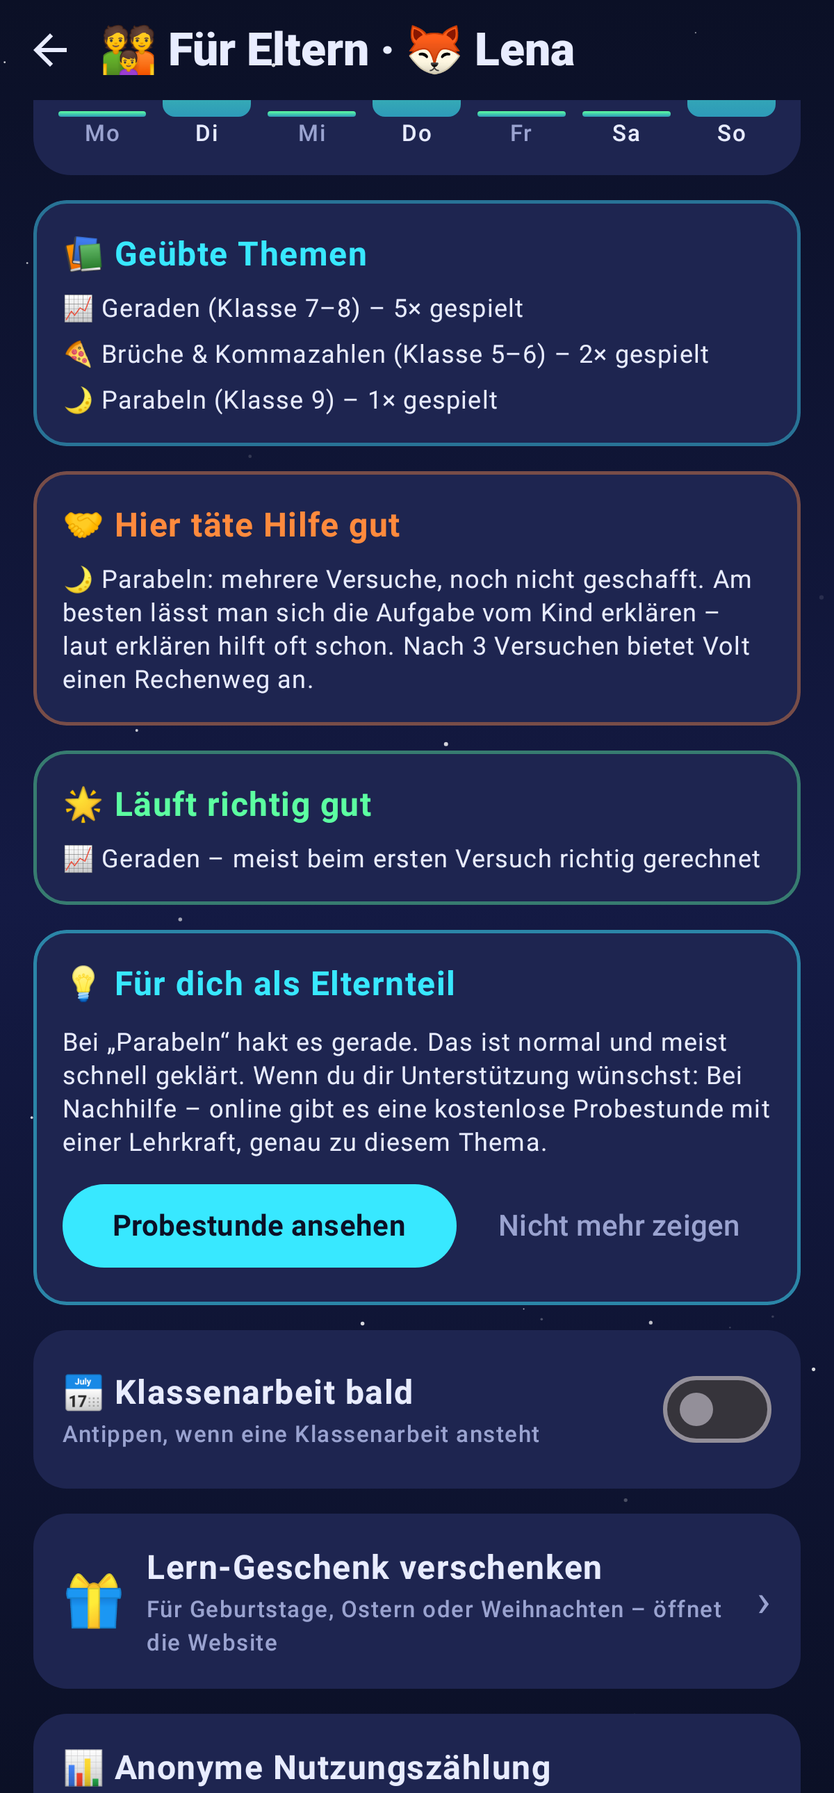
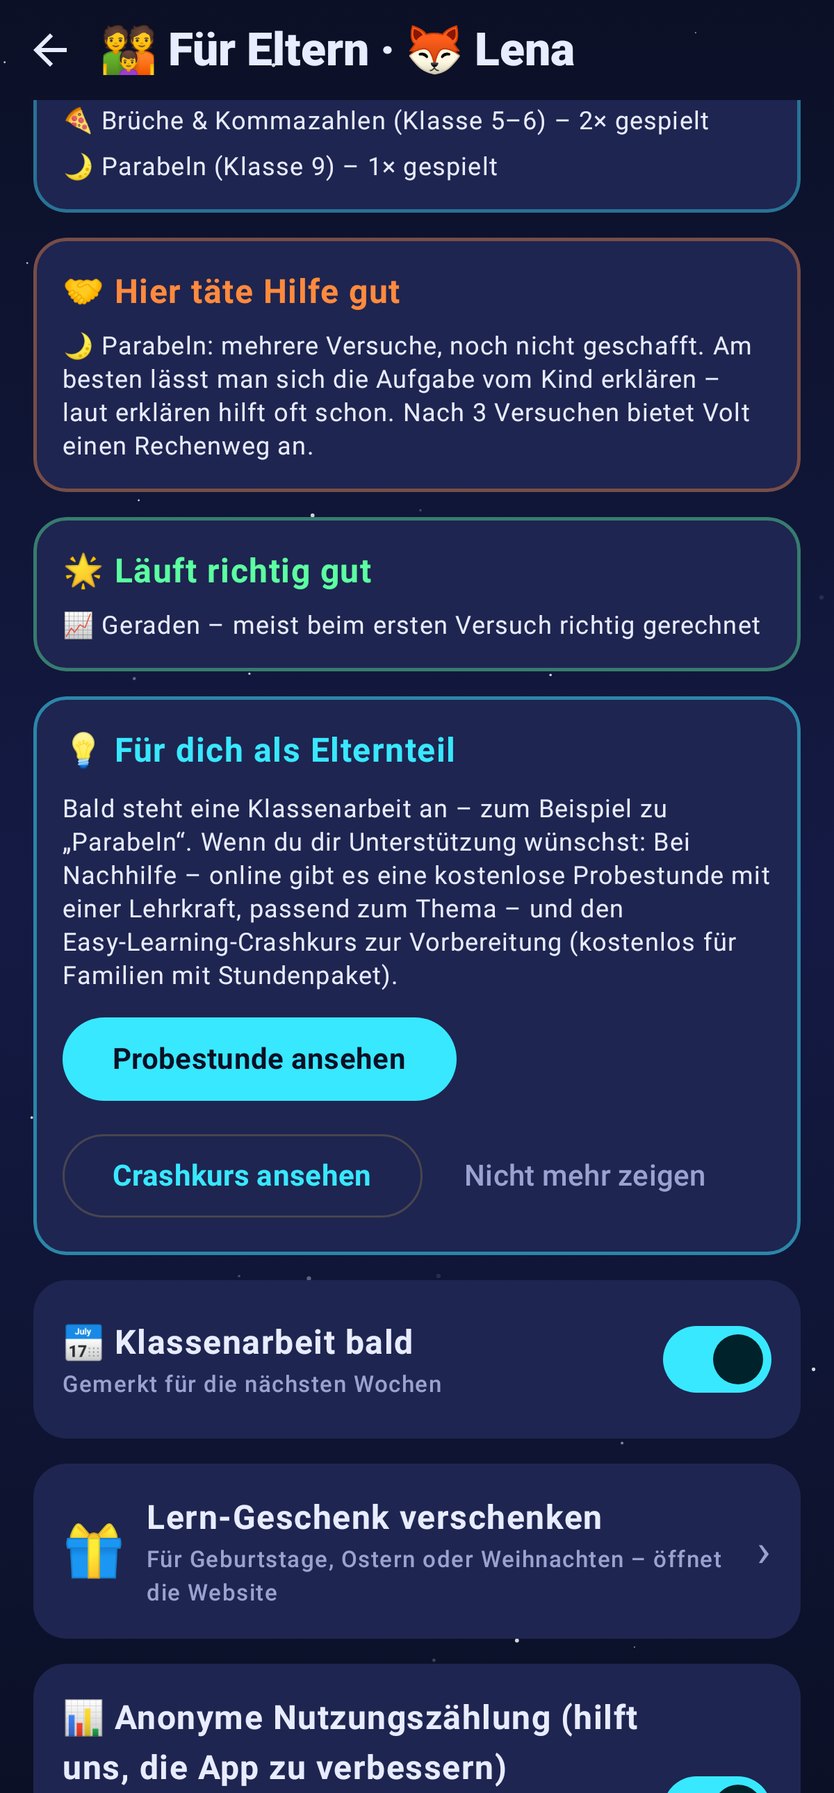
Kurvenflug 2.5.22: Ratgeber-Vorgaben – Zählung Standard an mit allen Ereignissen, gemeinsame Themen-IDs, Probestunde/Crashkurs-Links
Claude-Session: https://claude.ai/code/session_015vg1TniCB6sLGd2dNSJdge

diff --git a/kurvenflug/shared/src/commonMain/kotlin/de/kurvenflug/app/ui/together/Together.kt b/kurvenflug/shared/src/commonMain/kotlin/de/kurvenflug/app/ui/together/Together.kt
@@ -257,13 +257,15 @@ class ParentArea(
     val onHideHint: () -> Unit,
     val onHintSeen: () -> Unit,
     val onCounting: (Boolean) -> Unit,
+    /** Anonyme Nutzungszählung: Klicks und Hinweise (nur gesendet, wenn die Zählung an ist) */
+    val onCount: (String) -> Unit = {},
 )
 
 @Composable
 private fun ParentExtras(p: ParentArea, w: WeekSummary) {
     val sfx = LocalSfx.current
     val reason = de.kurvenflug.core.model.ParentOffers.hint(p.today, w.needsHelp.isNotEmpty(), p.examUntil, p.hintHidden, p.hintShown)
-    LaunchedEffect(reason) { if (reason != null) p.onHintSeen() }
+    LaunchedEffect(reason) { if (reason != null) { p.onHintSeen(); p.onCount("nachhilfe_hinweis") } }
     // Nachhilfe-Hinweis – themenbezogen, höchstens an einem Tag pro Woche, ausblendbar
     if (reason != null) {
         val topic = w.needsHelp.firstOrNull() ?: w.topics.firstOrNull()?.first
@@ -275,13 +277,19 @@ private fun ParentExtras(p: ParentArea, w: WeekSummary) {
             Text("💡 Für dich als Elternteil", fontWeight = FontWeight.Bold, color = Q.Cyan)
             Text(when (reason) {
                 de.kurvenflug.core.model.ParentOffers.Reason.EXAM -> "Bald steht eine Klassenarbeit an" + (topic?.let { " – zum Beispiel zu „${it.title}“" } ?: "") +
-                    ". Wenn du dir Unterstützung wünschst: Bei Nachhilfe – online gibt es eine kostenlose Probestunde mit einer Lehrkraft, passend zum Thema."
+                    ". Wenn du dir Unterstützung wünschst: Bei Nachhilfe – online gibt es eine kostenlose Probestunde mit einer Lehrkraft, passend zum Thema – " +
+                    "und den Easy-Learning-Crashkurs zur Vorbereitung (kostenlos für Familien mit Stundenpaket)."
                 else -> "Bei „${topic?.title}“ hakt es gerade. Das ist normal und meist schnell geklärt. Wenn du dir Unterstützung wünschst: " +
                     "Bei Nachhilfe – online gibt es eine kostenlose Probestunde mit einer Lehrkraft, genau zu diesem Thema."
             }, color = Q.Text, style = MaterialTheme.typography.bodySmall)
             Row(horizontalArrangement = Arrangement.spacedBy(8.dp), verticalAlignment = Alignment.CenterVertically) {
-                Button(onClick = { sfx?.play(Sound.TAP); p.onOpen(de.kurvenflug.core.model.ParentOffers.trialLesson(topic?.number ?: 0, p.grade)) },
+                Button(onClick = { sfx?.play(Sound.TAP); p.onCount("probestunde_klick"); p.onOpen(de.kurvenflug.core.model.ParentOffers.trialLesson(topic?.number, p.grade, reason)) },
                     colors = ButtonDefaults.buttonColors(containerColor = Q.Cyan, contentColor = Q.Space)) { Text("Probestunde ansehen", fontWeight = FontWeight.Bold) }
+                if (reason != de.kurvenflug.core.model.ParentOffers.Reason.EXAM) TextButton(onClick = { sfx?.play(Sound.TICK); p.onHideHint() }) { Text("Nicht mehr zeigen", color = Q.Muted) }
+            }
+            if (reason == de.kurvenflug.core.model.ParentOffers.Reason.EXAM) Row(horizontalArrangement = Arrangement.spacedBy(8.dp), verticalAlignment = Alignment.CenterVertically) {
+                OutlinedButton(onClick = { sfx?.play(Sound.TAP); p.onCount("crashkurs_klick"); p.onOpen(de.kurvenflug.core.model.ParentOffers.CRASH_COURSE) }) {
+                    Text("Crashkurs ansehen", color = Q.Cyan, fontWeight = FontWeight.Bold) }
                 TextButton(onClick = { sfx?.play(Sound.TICK); p.onHideHint() }) { Text("Nicht mehr zeigen", color = Q.Muted) }
             }
         }
@@ -297,7 +305,7 @@ private fun ParentExtras(p: ParentArea, w: WeekSummary) {
         Switch(exam, { sfx?.play(Sound.TICK); p.onExam(it) })
     }
     // Lern-Geschenk
-    Row(Modifier.fillMaxWidth().clip(RoundedCornerShape(16.dp)).background(Q.Panel).clickable { sfx?.play(Sound.TAP); p.onOpen(de.kurvenflug.core.model.ParentOffers.GIFT) }.padding(14.dp),
+    Row(Modifier.fillMaxWidth().clip(RoundedCornerShape(16.dp)).background(Q.Panel).clickable { sfx?.play(Sound.TAP); p.onCount("geschenk_klick"); p.onOpen(de.kurvenflug.core.model.ParentOffers.GIFT) }.padding(14.dp),
         verticalAlignment = Alignment.CenterVertically) {
         Text("🎁", fontSize = 24.sp)
         Column(Modifier.weight(1f).padding(start = 10.dp)) {
@@ -309,9 +317,9 @@ private fun ParentExtras(p: ParentArea, w: WeekSummary) {
     // Anonyme Nutzungszählung (aus = Standard)
     Row(Modifier.fillMaxWidth().clip(RoundedCornerShape(16.dp)).background(Q.Panel).padding(14.dp), verticalAlignment = Alignment.CenterVertically) {
         Column(Modifier.weight(1f)) {
-            Text("📊 Anonyme Nutzungszählung", fontWeight = FontWeight.Bold, color = Q.Text)
-            Text("Hilft uns, Kurvenflug zu verbessern: Gezählt wird nur, wie oft gestartet, ein Level begonnen oder geschafft und die Theorie " +
-                "geöffnet wurde – ohne Namen, ohne Spielstand, ohne Cookies, ohne Kennung.", color = Q.Muted, style = MaterialTheme.typography.labelSmall)
+            Text("📊 Anonyme Nutzungszählung (hilft uns, die App zu verbessern)", fontWeight = FontWeight.Bold, color = Q.Text)
+            Text("Gezählt wird nur, wie oft etwas passiert (z. B. Start, Level geschafft, Theorie geöffnet) – ohne Kennung, ohne IP, ohne Namen " +
+                "oder Spielstand. Auf dem Gerät wird dafür nichts gespeichert außer diesem Schalter.", color = Q.Muted, style = MaterialTheme.typography.labelSmall)
         }
         Switch(p.counting, { sfx?.play(Sound.TICK); p.onCounting(it) })
     }

diff --git a/kurvenflug/core/model/src/commonMain/kotlin/de/kurvenflug/core/model/ParentOffers.kt b/kurvenflug/core/model/src/commonMain/kotlin/de/kurvenflug/core/model/ParentOffers.kt
@@ -15,9 +15,30 @@ object ParentOffers {
     /** „Klassenarbeit bald“ gilt so lange, nachdem die Eltern es angetippt haben */
     const val EXAM_DAYS = 21L
 
-    /** Kostenlose Probestunde zum Thema (Kapitel-Nummer) und zur Klasse */
-    fun trialLesson(chapter: Int, grade: Int?): String =
-        "$SITE/probestunde/?src=kurvenflug-eltern&thema=kf-$chapter" + (grade?.let { "&klasse=$it" } ?: "")
+    /** Crashkurs vor einer Klassenarbeit (Wortlaut Leitstand: „kostenlos für Familien mit Stundenpaket“) */
+    const val CRASH_COURSE = "$SITE/produkt/easy-learning-crash-kurs/?src=kurvenflug-klassenarbeit"
+
+    /**
+     * Gemeinsame Themen-Kennungen (Leitstand 18.11.; andere Werte verwirft das Probestunden-Formular) je Kurvenflug-Kapitel.
+     */
+    val TOPICS: Map<Int, String> = mapOf(
+        1 to "geometrie", 2 to "lineare-funktionen", 3 to "quadratische-funktionen", 4 to "physik-mechanik", 5 to "trigonometrie",
+        6 to "physik-mechanik", 7 to "gleichungssysteme", 8 to "zuordnungen", 9 to "pythagoras", 10 to "exponential-log",
+        11 to "physik-optik", 12 to "physik-energie", 13 to "physik-mechanik", 14 to "trigonometrie", 15 to "brueche",
+        16 to "geometrie", 17 to "physik-optik", 18 to "quadratische-funktionen", 19 to "analysis", 20 to "analysis",
+        21 to "analysis", 22 to "vektoren", 23 to "prozent", 24 to "physik-mechanik", 25 to "potenzen-wurzeln",
+        26 to "trigonometrie", 27 to "physik-mechanik", 28 to "exponential-log", 29 to "zuordnungen", 30 to "stochastik",
+    )
+    /** Die erlaubte gemeinsame Liste (zur Prüfung im Test) */
+    val ALLOWED_TOPICS = setOf("grundrechenarten", "einmaleins", "brueche", "dezimalzahlen", "prozent", "zuordnungen", "terme-gleichungen",
+        "lineare-funktionen", "gleichungssysteme", "pythagoras", "quadratische-funktionen", "potenzen-wurzeln", "exponential-log", "trigonometrie",
+        "geometrie", "vektoren", "analysis", "stochastik", "physik-mechanik", "physik-optik", "physik-energie", "sachkunde", "deutsch", "englisch",
+        "allgemeinwissen")
+
+    /** Kostenlose Probestunde zum Thema und zur Klasse; [reason] bestimmt die Quelle (elternbericht bzw. klassenarbeit) */
+    fun trialLesson(chapter: Int?, grade: Int?, reason: Reason = Reason.STUCK): String =
+        "$SITE/probestunde/?src=kurvenflug-" + (if (reason == Reason.EXAM) "klassenarbeit" else "elternbericht") +
+            (chapter?.let { TOPICS[it] }?.let { "&thema=$it" } ?: "") + (grade?.let { "&klasse=$it" } ?: "")
 
     /** Warum der Hinweis kommt */
     enum class Reason { STUCK, EXAM }
@@ -41,13 +62,16 @@ object ParentOffers {
 object UsageCount {
     const val URL = "https://trainer.mathenachhilfe-online.com/zaehler/v1/e"
     /** Erlaubte Ereignisse – nichts anderes wird je gezählt */
-    val EVENTS = setOf("start", "level_start", "level_geschafft", "theorie")
+    val EVENTS = setOf("start", "level_start", "level_geschafft", "theorie", "elternbereich", "pro_ansehen", "pro_kasse", "code_eingeloest",
+        "probestunde_klick", "neukunde_klick", "crashkurs_klick", "nachhilfe_hinweis", "geschenk_klick")
+    /** Der Zähler nimmt je Ereignis höchstens so viele an */
+    const val MAX_PER_EVENT = 50
 
-    /** Inhalt der Sendung: {"app":"kurvenflug","v":"2.5.21","f":"wasm","e":{"start":1,…}} – null, wenn nichts zu senden ist */
-    fun body(version: String, variant: String, counts: Map<String, Int>): String? {
+    /** Inhalt der Sendung: {"app":"kurvenflug","v":"2.5.22","e":{"start":1,…}} – null, wenn nichts zu senden ist */
+    fun body(version: String, counts: Map<String, Int>): String? {
         val e = counts.filterKeys { it in EVENTS }.filterValues { it > 0 }
         if (e.isEmpty()) return null
-        val list = e.entries.sortedBy { it.key }.joinToString(",") { "\"${it.key}\":${it.value}" }
-        return "{\"app\":\"kurvenflug\",\"v\":\"${version.filter { it.isLetterOrDigit() || it == '.' }}\",\"f\":\"${variant.filter { it.isLetter() }}\",\"e\":{$list}}"
+        val list = e.entries.sortedBy { it.key }.joinToString(",") { "\"${it.key}\":${it.value.coerceAtMost(MAX_PER_EVENT)}" }
+        return "{\"app\":\"kurvenflug\",\"v\":\"${version.filter { it.isLetterOrDigit() || it == '.' }}\",\"e\":{$list}}"
     }
 }

diff --git a/kurvenflug/core/model/src/commonTest/kotlin/de/kurvenflug/core/model/ParentOffersTest.kt b/kurvenflug/core/model/src/commonTest/kotlin/de/kurvenflug/core/model/ParentOffersTest.kt
@@ -19,15 +19,22 @@ class ParentOffersTest {
     }
 
     @Test fun linksCarrySourceAndNoPrice() {
-        assertEquals("https://www.mathenachhilfe-online.com/probestunde/?src=kurvenflug-eltern&thema=kf-9&klasse=9", ParentOffers.trialLesson(9, 9))
-        assertTrue(ParentOffers.trialLesson(3, null).endsWith("thema=kf-3"))
+        assertEquals("https://www.mathenachhilfe-online.com/probestunde/?src=kurvenflug-elternbericht&thema=pythagoras&klasse=9", ParentOffers.trialLesson(9, 9))
+        assertEquals("https://www.mathenachhilfe-online.com/probestunde/?src=kurvenflug-klassenarbeit&thema=quadratische-funktionen",
+            ParentOffers.trialLesson(3, null, ParentOffers.Reason.EXAM))
+        assertTrue("src=kurvenflug-klassenarbeit" in ParentOffers.CRASH_COURSE)
         assertTrue("src=kurvenflug-geschenk" in ParentOffers.GIFT && "src=kurvenflug-fusszeile" in ParentOffers.FOOTER)
         listOf(ParentOffers.GIFT, ParentOffers.FOOTER, ParentOffers.FOOTER_TEXT).forEach { assertTrue('€' !in it) }
     }
 
+    @Test fun everyChapterHasAnAllowedTopic() {
+        Levels.chapters.forEach { c -> val t = ParentOffers.TOPICS[c.number]; assertTrue(t != null && t in ParentOffers.ALLOWED_TOPICS, "Kapitel ${c.number} ohne Thema") }
+    }
+
     @Test fun usageBodyOnlyKnownEventsNoIds() {
-        assertNull(UsageCount.body("2.5.21", "wasm", emptyMap()))
-        val b = UsageCount.body("2.5.21", "wasm", mapOf("start" to 1, "level_geschafft" to 3, "name:Lena" to 1, "theorie" to 0))!!
-        assertEquals("{\"app\":\"kurvenflug\",\"v\":\"2.5.21\",\"f\":\"wasm\",\"e\":{\"level_geschafft\":3,\"start\":1}}", b)
+        assertNull(UsageCount.body("2.5.22", emptyMap()))
+        val b = UsageCount.body("2.5.22", mapOf("start" to 1, "level_geschafft" to 300, "name:Lena" to 1, "theorie" to 0))!!
+        assertEquals("{\"app\":\"kurvenflug\",\"v\":\"2.5.22\",\"e\":{\"level_geschafft\":50,\"start\":1}}", b)
+        assertTrue(UsageCount.EVENTS.size <= 20)
     }
 }

diff --git a/kurvenflug/shared/src/commonMain/kotlin/de/kurvenflug/app/ui/pro/ProScreen.kt b/kurvenflug/shared/src/commonMain/kotlin/de/kurvenflug/app/ui/pro/ProScreen.kt
@@ -40,6 +40,8 @@ import de.kurvenflug.core.model.Pro
  */
 @Composable
 fun ProScreen(state: ProState, shop: ProShop?, onCode: (String) -> Unit, onBack: () -> Unit, locked: Boolean = false) {
+    val counter = de.kurvenflug.app.LocalPlatform.current
+    LaunchedEffect(Unit) { counter.count("pro_ansehen") }
     val sfx = LocalSfx.current
     var gate by remember { mutableStateOf(false) }
     var code by remember { mutableStateOf("") }
@@ -125,7 +127,7 @@ fun ProScreen(state: ProState, shop: ProShop?, onCode: (String) -> Unit, onBack:
                         val c = License.extract(code)
                         val ok = c != null && shop.publicKey.isNotEmpty() && License.check(c, shop.publicKey, CalDate.today().toEpochDay()) != null
                         codeMsg = if (ok) "Super – Pro ist freigeschaltet! 🎉" else "Dieser Code passt leider nicht. Bitte genau so einfügen, wie er in der E-Mail steht."
-                        if (ok) { onCode(c!!); sfx?.play(Sound.WIN) } else sfx?.play(Sound.WRONG)
+                        if (ok) { onCode(c!!); counter.count("code_eingeloest"); sfx?.play(Sound.WIN) } else sfx?.play(Sound.WRONG)
                     }, enabled = code.isNotBlank(), modifier = Modifier.fillMaxWidth()) { Text("Code einlösen", fontWeight = FontWeight.Bold) }
                     codeMsg?.let { Text(it, color = if (it.startsWith("Super")) Q.Green else Q.Pink) }
                 }
@@ -137,7 +139,7 @@ fun ProScreen(state: ProState, shop: ProShop?, onCode: (String) -> Unit, onBack:
                 style = MaterialTheme.typography.labelSmall, color = Q.Muted, textAlign = TextAlign.Center)
         }
     }
-    if (gate) ParentGate(onDismiss = { gate = false }) { gate = false; shop?.buy() }
+    if (gate) ParentGate(onDismiss = { gate = false }) { gate = false; counter.count("pro_kasse"); shop?.buy() }
 }
 
 /** Frage für Erwachsene vor jedem Kauf: Geburtsjahr eingeben, mindestens 18 Jahre. */

diff --git a/kurvenflug/shared/src/commonMain/kotlin/de/kurvenflug/app/Root.kt b/kurvenflug/shared/src/commonMain/kotlin/de/kurvenflug/app/Root.kt
@@ -213,7 +213,7 @@ private fun Nav(vm: AppState, platform: Platform, incomingDuel: MutableState<Str
     de.kurvenflug.app.ui.fx.BackHandler(enabled = platform.isWeb && route != Routes.HOME) { nav.popSafe() }
     // Elternbereich nur hinter dem Eltern-Tor (dort stehen Angebote für Eltern – nie für Kinder sichtbar)
     var parentGate by remember { mutableStateOf(false) }
-    if (parentGate) de.kurvenflug.app.ui.pro.ParentGate(onDismiss = { parentGate = false }, why = "Der Elternbereich ist für Erwachsene.") { parentGate = false; nav.goOnce(Routes.PARENT) }
+    if (parentGate) de.kurvenflug.app.ui.pro.ParentGate(onDismiss = { parentGate = false }, why = "Der Elternbereich ist für Erwachsene.") { parentGate = false; platform.count("elternbereich"); nav.goOnce(Routes.PARENT) }
     // Anonyme Nutzungszählung: Level-Abschlüsse aus dem Spielstand
     LaunchedEffect(Unit) { vm.events = platform::count }
     NavHost(nav, Routes.HOME,
@@ -389,7 +389,7 @@ private fun Nav(vm: AppState, platform: Platform, incomingDuel: MutableState<Str
                     onExam = { vm.settings.setExamUntil(if (it) day + de.kurvenflug.core.model.ParentOffers.EXAM_DAYS else 0L) },
                     onHideHint = { vm.settings.setTutorHintOff(true) },
                     onHintSeen = { if (vm.settings.tutorHintShown != day) vm.settings.tutorHintShown = day },
-                    onCounting = vm.settings::setAnonCount))
+                    onCounting = vm.settings::setAnonCount, onCount = platform::count))
         }
         composable(Routes.RESULTS) { de.kurvenflug.app.ui.together.ResultsBoard({ nav.popSafe() }) }
         composable(Routes.STICKERS) {

diff --git a/kurvenflug/shared/src/webMain/kotlin/de/kurvenflug/app/Platform.wasm.kt b/kurvenflug/shared/src/webMain/kotlin/de/kurvenflug/app/Platform.wasm.kt
@@ -70,14 +70,15 @@ object WebPlatform : Platform {
     private val counts = HashMap<String, Int>()
     private var counting = false
     private var leaveHooked = false
-    override fun count(event: String) { if (counting && event in de.kurvenflug.core.model.UsageCount.EVENTS) counts[event] = (counts[event] ?: 0) + 1 }
+    // Gezählt wird nur im Speicher (nichts auf dem Gerät abgelegt); gesendet nur, wenn die Zählung an ist
+    override fun count(event: String) { if (event in de.kurvenflug.core.model.UsageCount.EVENTS) counts[event] = (counts[event] ?: 0) + 1 }
     override fun setCounting(on: Boolean) {
         counting = on; if (!on) counts.clear()
         if (on && !leaveHooked) { leaveHooked = true; runCatching { jsOnLeave { takeBody() } } }
     }
     private fun takeBody(): String {
         if (!counting) return ""
-        val b = de.kurvenflug.core.model.UsageCount.body(versionName, runCatching { jsMode() }.getOrDefault(""), counts) ?: return ""
+        val b = de.kurvenflug.core.model.UsageCount.body(versionName, counts) ?: return ""
         counts.clear(); return b
     }
     override fun shareText(text: String, title: String) = jsShare(text, title)

diff --git a/kurvenflug/core/model/src/commonMain/kotlin/de/kurvenflug/core/data/Settings.kt b/kurvenflug/core/model/src/commonMain/kotlin/de/kurvenflug/core/data/Settings.kt
@@ -41,8 +41,8 @@ class Settings(private val prefs: Prefs) {
     fun setVoltVoice(v: Boolean) { prefs.edit().putBoolean("voltVoice", v).apply(); _voltVoice.value = v }
 
     // ------------------------------------------------------------ Elternbereich (für das ganze Gerät)
-    private val _anonCount = flag("anonCount", false)
-    /** Anonyme Nutzungszählung – nur wenn Eltern sie einschalten (aus = Standard, datensparsam) */
+    private val _anonCount = flag("anonCount", true)
+    /** Anonyme Nutzungszählung – Standard an (Marcel 18.11.), im Elternbereich abschaltbar; auf dem Gerät wird nur dieser Schalter gespeichert */
     val anonCount: StateFlow<Boolean> = _anonCount.asStateFlow()
     fun setAnonCount(v: Boolean) { prefs.edit().putBoolean("anonCount", v).apply(); _anonCount.value = v }
     private val _tutorHintOff = flag("tutorHintOff", false)

diff --git a/kurvenflug/app/src/test/java/de/kurvenflug/app/ui/ScreenshotTest.kt b/kurvenflug/app/src/test/java/de/kurvenflug/app/ui/ScreenshotTest.kt
@@ -289,7 +289,7 @@ class ScreenshotTest {
             de.kurvenflug.core.model.PlayRecord("15-2", 3, 1, 90, today), de.kurvenflug.core.model.PlayRecord("2-5", 3, 1, 260, today))
         de.kurvenflug.app.ui.together.ParentScreen(de.kurvenflug.core.data.Profile(0, "Lena", "🦊"),
             de.kurvenflug.core.model.Weekly.summary(plays, today + 3_600_000L, today), listOf("Mo", "Di", "Mi", "Do", "Fr", "Sa", "So"), onBack = {},
-            parent = de.kurvenflug.app.ui.together.ParentArea(7, 20_400L, 0L, false, 0L, false, {}, {}, {}, {}, {}))
+            parent = de.kurvenflug.app.ui.together.ParentArea(7, 20_400L, 20_410L, false, 0L, true, {}, {}, {}, {}, {}))
     }
 
     @Test fun results() = shot("63_bestenliste") {

diff --git a/kurvenflug/web/src/webMain/kotlin/Main.kt b/kurvenflug/web/src/webMain/kotlin/Main.kt
@@ -38,6 +38,7 @@ fun main() {
         clearSearch()
         // Bestätigung (B4): gültig → Freude, sonst freundlich sagen, was zu tun ist
         val ok = de.kurvenflug.core.model.License.check(code, BuildInfo.PRO_KEY, de.kurvenflug.core.model.CalDate.today().toEpochDay()) != null
+        if (ok) WebPlatform.count("code_eingeloest")
         confirm(if (ok) "🎉 Kurvenflug Pro ist freigeschaltet – viel Spaß!" else "Der Freischalt-Link hat nicht gepasst. Bitte den Code unter Einstellungen → Kurvenflug Pro eingeben.")
     }
     val state = AppState(settings, WebProgressStore(settings.profile), MainScope())

diff --git a/kurvenflug/MELDUNG_AN_LEITSTAND.md b/kurvenflug/MELDUNG_AN_LEITSTAND.md
@@ -1,5 +1,27 @@
 # Meldungen an den Leitstand – Kurvenflug WebApp
 
+## ✅ 2.5.22 – Vorgaben aus dem Ratgeber übernommen (eure Nachricht 18.11. 14:37)
+1. **Zählung:** Sendung jetzt `{"app":"kurvenflug","v":"2.5.22","e":{…}}` (ohne `f`), je Ereignis höchstens 50. Gezählt werden:
+   `start`, `level_start`, `level_geschafft`, `theorie`, `elternbereich` (Eltern-Tor bestanden), `pro_ansehen` (Pro-Seite geöffnet),
+   `pro_kasse` (Kauf nach Eltern-Tor), `code_eingeloest` (Code-Feld oder `?pro=`-Link gültig), `probestunde_klick`, `crashkurs_klick`,
+   `nachhilfe_hinweis` (Hinweis gezeigt), `geschenk_klick`. `neukunde_klick` steht in der erlaubten Liste, KurvenFlug hat dafür keinen Knopf.
+   Kein `ort`/`thema` (optional). Unbekannte Ereignisse kann die App nicht senden (feste Liste, Test). Browser: an → `{"start":1}` gesendet, aus → nichts.
+2. **Schalter** „📊 Anonyme Nutzungszählung (hilft uns, die App zu verbessern)“, **Standard AN**, Satz: gezählt wird nur, wie oft etwas
+   passiert – ohne Kennung, ohne IP, ohne Namen/Spielstand; auf dem Gerät nur die Schalterstellung (Zähler nur im Speicher).
+3. **Themen-Zuordnung** (Kapitel → Kennung): 1 Koordinaten → geometrie · 2 Geraden → lineare-funktionen · 3 Parabeln → quadratische-funktionen ·
+   4 Wurf & Schwerkraft → physik-mechanik · 5 Wellen & Wachstum → trigonometrie · 6 Schwerkraft-Schleuder → physik-mechanik ·
+   7 Rendezvous → gleichungssysteme · 8 Zuordnungen → zuordnungen · 9 Pythagoras → pythagoras · 10 Logarithmus → exponential-log ·
+   11 Laser-Optik → physik-optik · 12 Energie → physik-energie · 13 Weg & Zeit → physik-mechanik · 14 Trigonometrie → trigonometrie ·
+   15 Brüche & Kommazahlen → brueche · 16 Winkel → geometrie · 17 Lichtbrechung → physik-optik · 18 Nullstellen → quadratische-funktionen ·
+   19 Ableitung & Tangente → analysis · 20 Extrempunkte → analysis · 21 Integral → analysis · 22 Vektoren → vektoren ·
+   23 Prozent & Zinseszins → prozent · 24 Beschleunigte Bewegung → physik-mechanik · 25 Potenzfunktionen → potenzen-wurzeln ·
+   26 Verschobene Wellen → trigonometrie · 27 Waagerechter Wurf → physik-mechanik · 28 e-Funktion → exponential-log ·
+   29 Maßstab & Karten → zuordnungen · 30 Binomialverteilung → stochastik. (Test: jedes Kapitel hat eine Kennung aus der Liste.)
+4. **Probestunde:** `…/probestunde/?src=kurvenflug-elternbericht&thema=<id>&klasse=<n>` (Thema hakt) bzw. `src=kurvenflug-klassenarbeit`.
+5. **Crashkurs** (nur bei „Klassenarbeit bald“): Knopf „Crashkurs ansehen“ → `…/produkt/easy-learning-crash-kurs/?src=kurvenflug-klassenarbeit`,
+   Wortlaut „kostenlos für Familien mit Stundenpaket“.
+6. Rest unverändert. versionCode 69 / 2.5.22, Prüfkette grün, keine neuen Dateiendungen.
+
 ## ✅ 2.5.21 – A3 Zählung, B4 Einlöse-Link + Lern-Geschenk, C1 Nachhilfe-Hinweis, Fußzeile
 **Hinweis:** Den Ratgeber (Website_Backup, geld-verdienen/RATGEBER.md) konnte ich **nicht lesen** – das Hinzufügen des Repos wurde
 in meiner Sitzung abgelehnt. Umgesetzt nach eurer Nachricht; wo der Ratgeber Genaueres vorgibt (Format, Crashkurs-Links,

diff --git a/kurvenflug/CHANGELOG.md b/kurvenflug/CHANGELOG.md
@@ -3,6 +3,12 @@
 Kurz und verständlich für Schüler und Eltern. Der Abschnitt der aktuellen Version erscheint automatisch
 im GitHub-Release und in der App unter „App-Update“.
 
+## 2.5.22 – Elternbereich nach Vorgabe
+- Vor einer Klassenarbeit zeigt der Elternbereich neben der Probestunde auch den Easy-Learning-Crashkurs
+  (kostenlos für Familien mit Stundenpaket). Die Probestunde öffnet passend vorausgefüllt mit Thema und Klasse.
+- Die anonyme Nutzungszählung ist jetzt standardmäßig an und im Elternbereich abschaltbar. Gezählt wird nur, wie oft
+  etwas passiert – ohne Kennung, ohne IP, ohne Namen oder Spielstand; auf dem Gerät wird dafür nur der Schalter gespeichert.
+
 ## 2.5.21 – Mehr für Eltern
 - Der Elternbereich („Ich“ → „Für Eltern“) ist jetzt durch eine Frage für Erwachsene geschützt. Dort gibt es neu:
   einen Hinweis, wenn ein Thema länger hakt oder eine Klassenarbeit ansteht (mit kostenloser Probestunde bei
